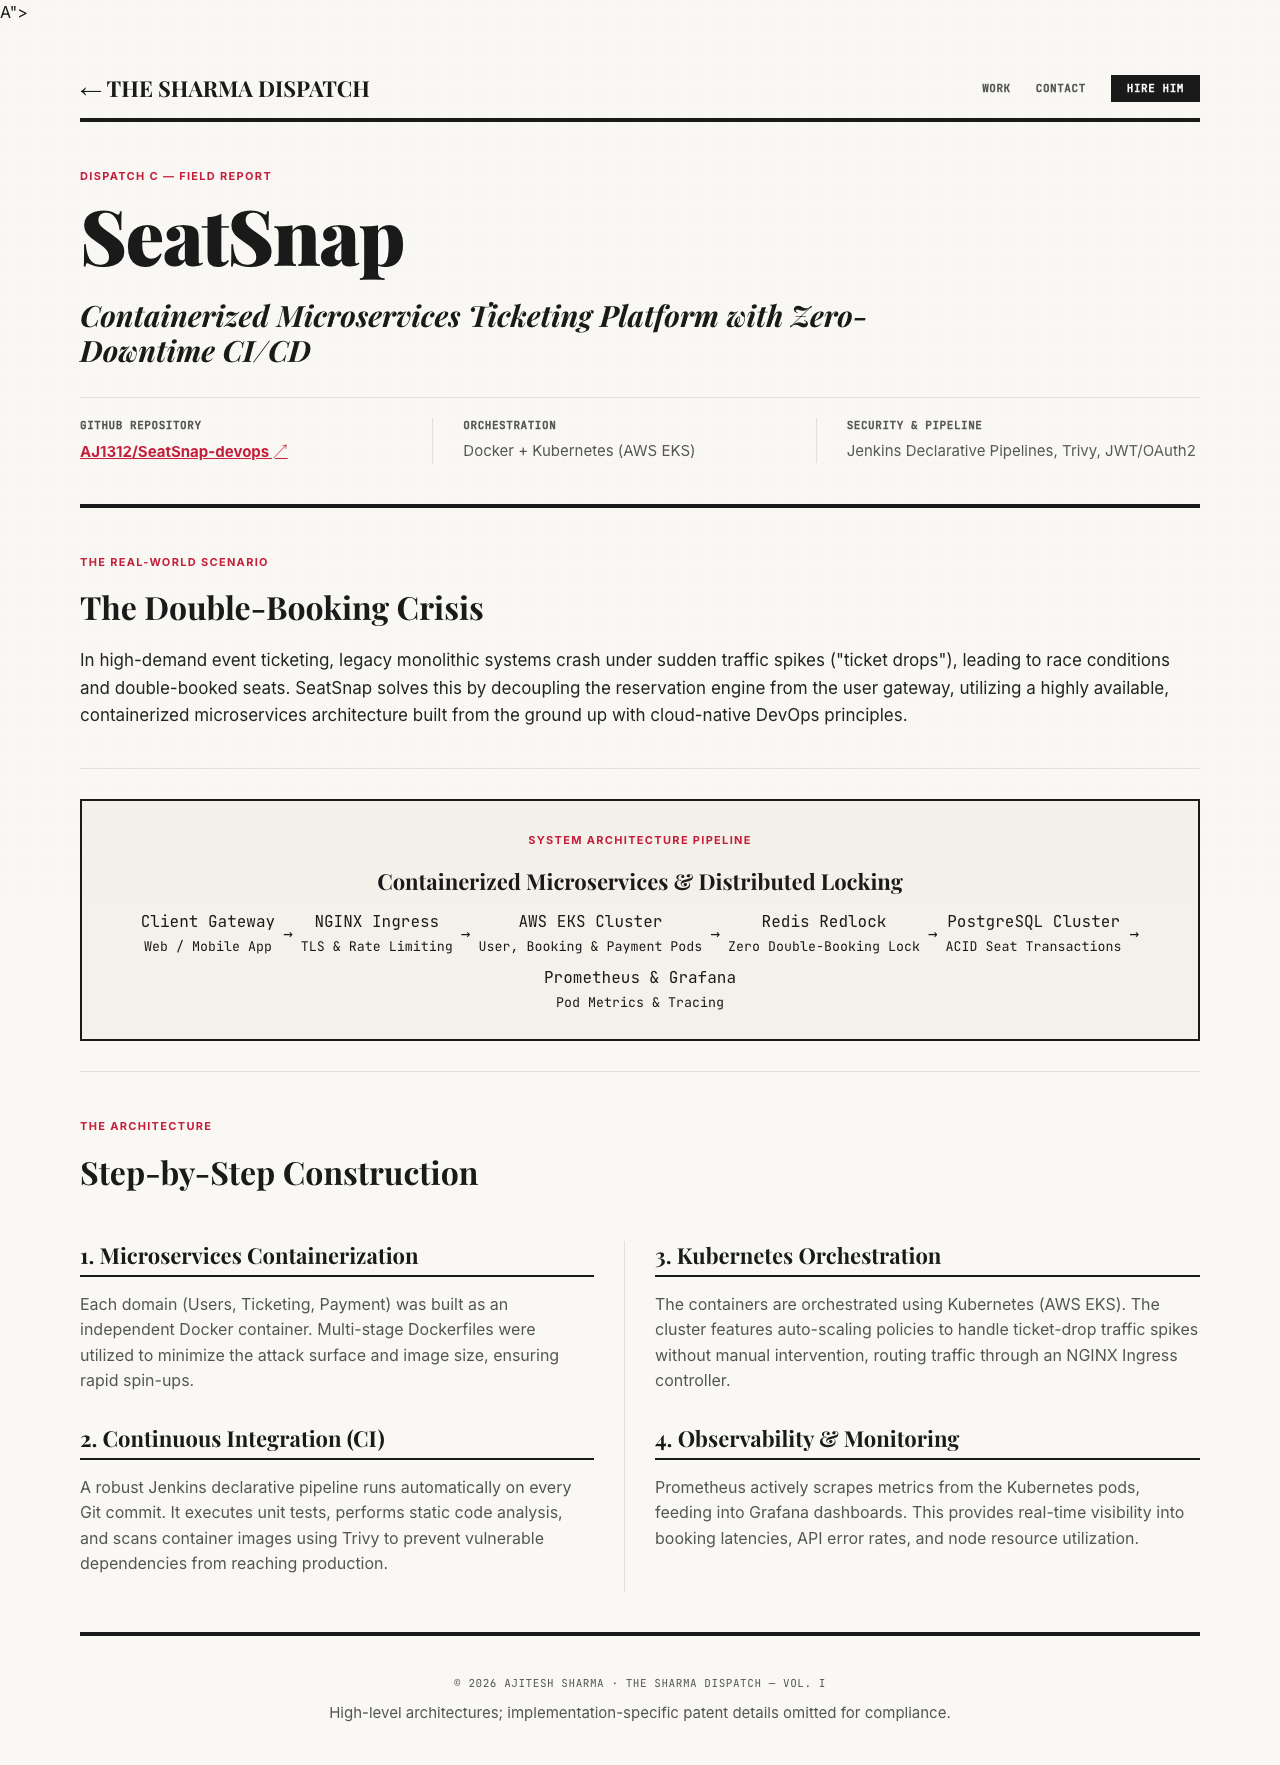
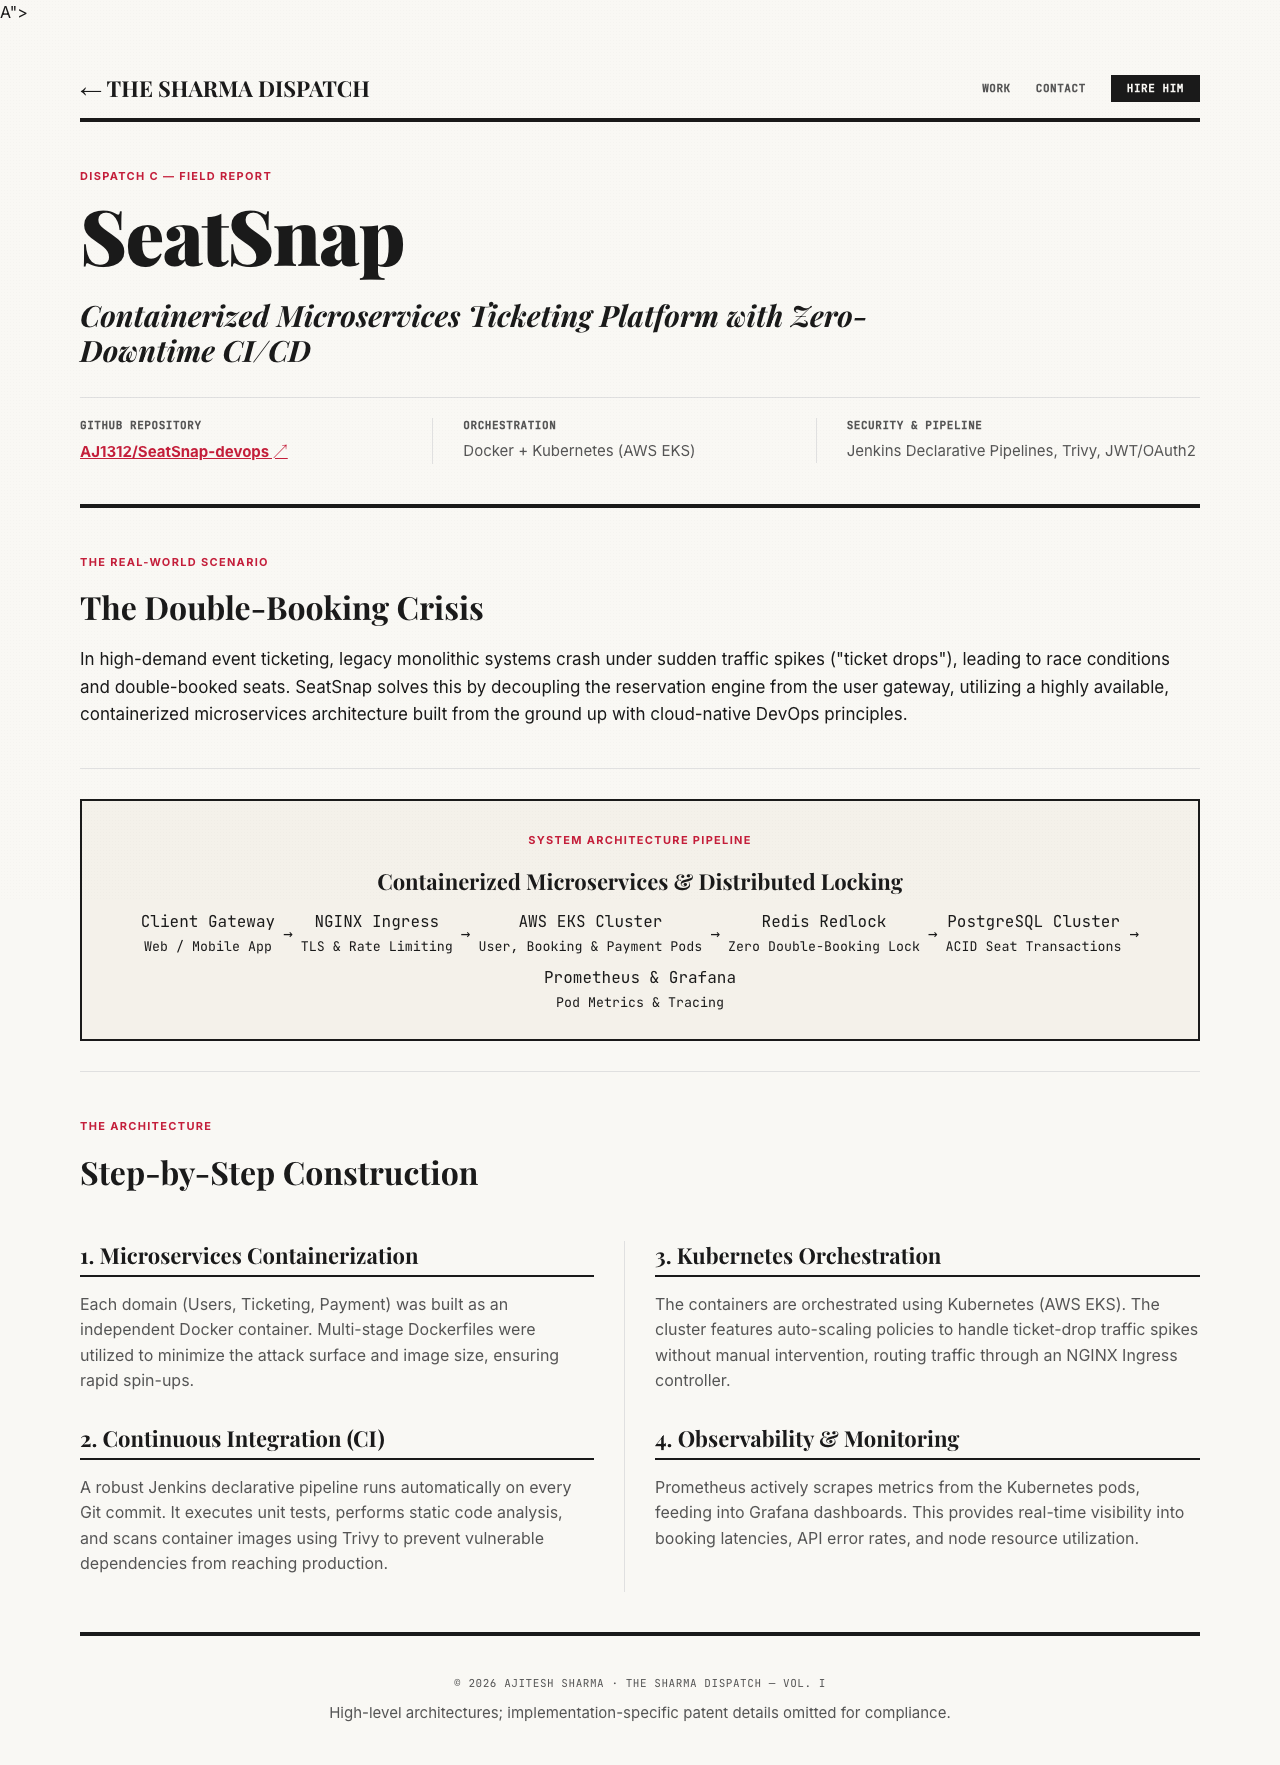
Disable swoop-in text animations across all pages for instant, stable, crisp broadsheet rendering

Changed region(s): [[0.0625, 0.3739, 0.9062, 0.4051]]

diff --git a/js/animations.js b/js/animations.js
@@ -1,63 +1,20 @@
 /**
- * The Sharma Dispatch - Elite Scroll & Entrance Animations
- * Triggers animations ONCE on initial viewport entry to eliminate scroll jitter.
+ * The Sharma Dispatch - Clean, Instant Display Scripts
+ * Disabled swoop-in displacement for clean, immediate, stable broadsheet rendering.
  */
 
 document.addEventListener('DOMContentLoaded', () => {
-    if (typeof gsap !== 'undefined' && typeof ScrollTrigger !== 'undefined') {
-        initScrollAnimations();
-    }
+    // Ensure all content is immediately visible with zero swoop-in delay
+    const rvElements = document.querySelectorAll('.rv, .dispatch-card, .metric-card-styled, .step-card-item');
+    rvElements.forEach(el => {
+        el.style.opacity = '1';
+        el.style.transform = 'none';
+    });
+
+    // Clean initial stamp rotation for broadsheet styling
+    const stamps = document.querySelectorAll('.dispatch-card__stamp');
+    stamps.forEach(stamp => {
+        stamp.style.transform = 'rotate(-15deg)';
+        stamp.style.transformOrigin = 'center center';
+    });
 });
-
-function initScrollAnimations() {
-    gsap.registerPlugin(ScrollTrigger);
-
-    const defaultEase = 'power2.out';
-    const defaultDuration = 0.6;
-
-    // 1. Reveal elements with 'once: true' so they never re-animate or flicker on scroll
-    ScrollTrigger.batch('.rv', {
-        interval: 0.05,
-        batchMax: 12,
-        onEnter: batch => {
-            gsap.fromTo(batch, 
-                { opacity: 0, y: 20 },
-                { 
-                    opacity: 1, 
-                    y: 0, 
-                    duration: defaultDuration, 
-                    ease: defaultEase,
-                    stagger: 0.05,
-                    overwrite: 'auto'
-                }
-            );
-        },
-        start: 'top 92%',
-        once: true // CRITICAL: Run only once on load, never jitter on scroll
-    });
-
-    // 2. Card entrances with 'once: true'
-    ScrollTrigger.batch('.dispatch-card, .metric-card-styled, .step-card-item', {
-        onEnter: batch => {
-            gsap.fromTo(batch,
-                { opacity: 0, y: 25 },
-                {
-                    opacity: 1,
-                    y: 0,
-                    duration: defaultDuration,
-                    ease: defaultEase,
-                    stagger: 0.08,
-                    overwrite: 'auto'
-                }
-            );
-        },
-        start: 'top 92%',
-        once: true
-    });
-
-    // 3. Initial stamp rotation
-    gsap.set('.dispatch-card__stamp', {
-        rotation: -15,
-        transformOrigin: 'center center'
-    });
-}
